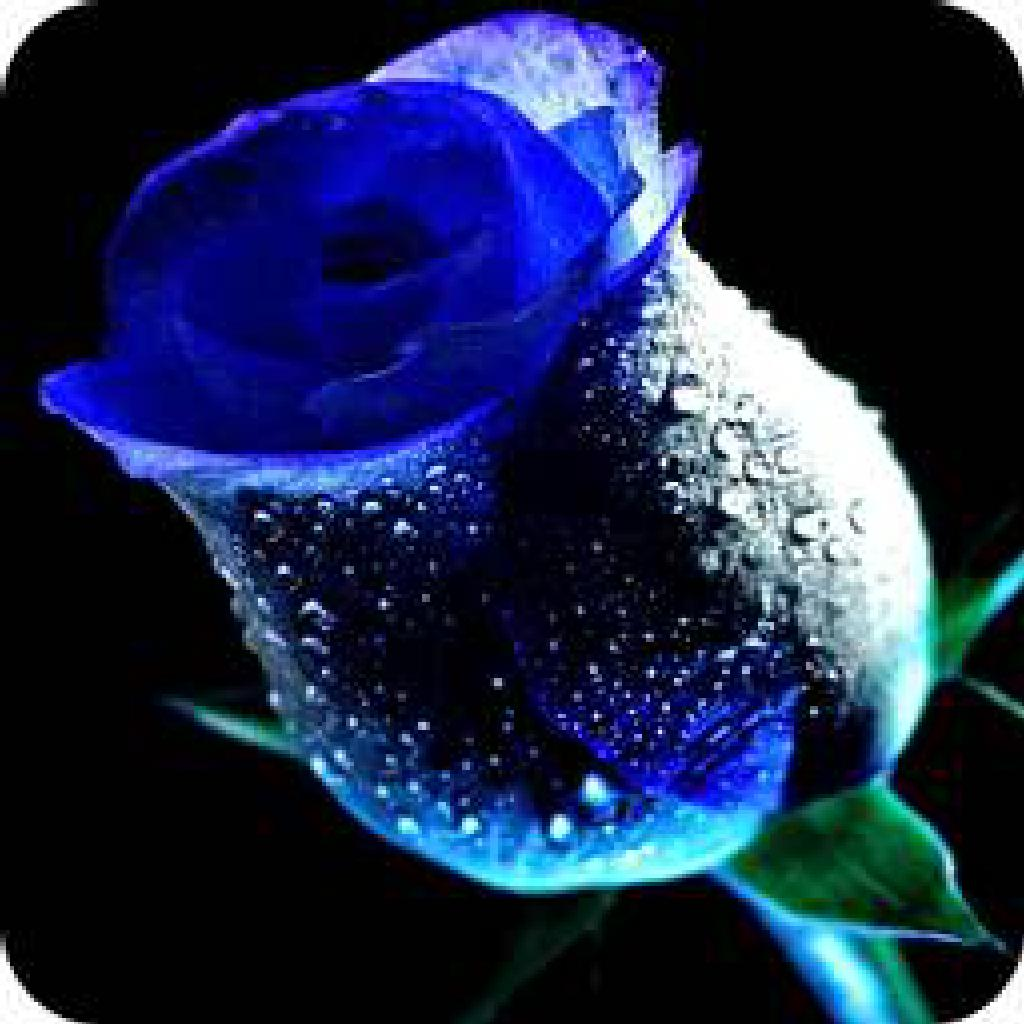
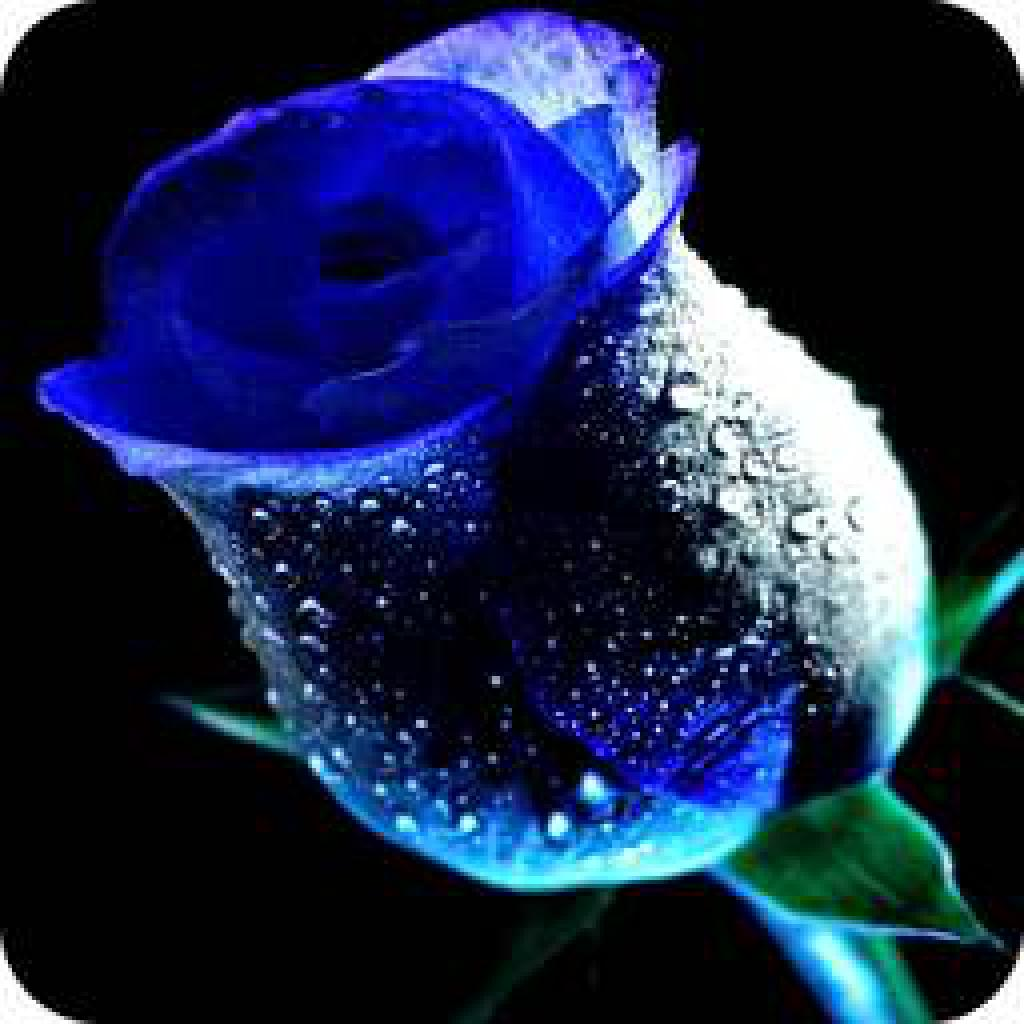
Nearest interpolation.

diff --git a/interpolation/Nearest_Interpolation.py b/interpolation/Nearest_Interpolation.py
@@ -7,9 +7,9 @@ def nearestInterpolation(image, newShape=(1024, 1024)):
     hScale, wScale = oldHeight / newHeight, oldWidth / newWidth
 
     for i in range(newHeight):
-        x = int((i + 0.5) * hScale - 0.5)
+        x = int((i + 0.5) * hScale)
         for j in range(newWidth):
-            y = int((j + 0.5) * wScale - 0.5)
+            y = int((j + 0.5) * wScale)
             newImage[i, j] = image[x, y]
 
     return newImage
